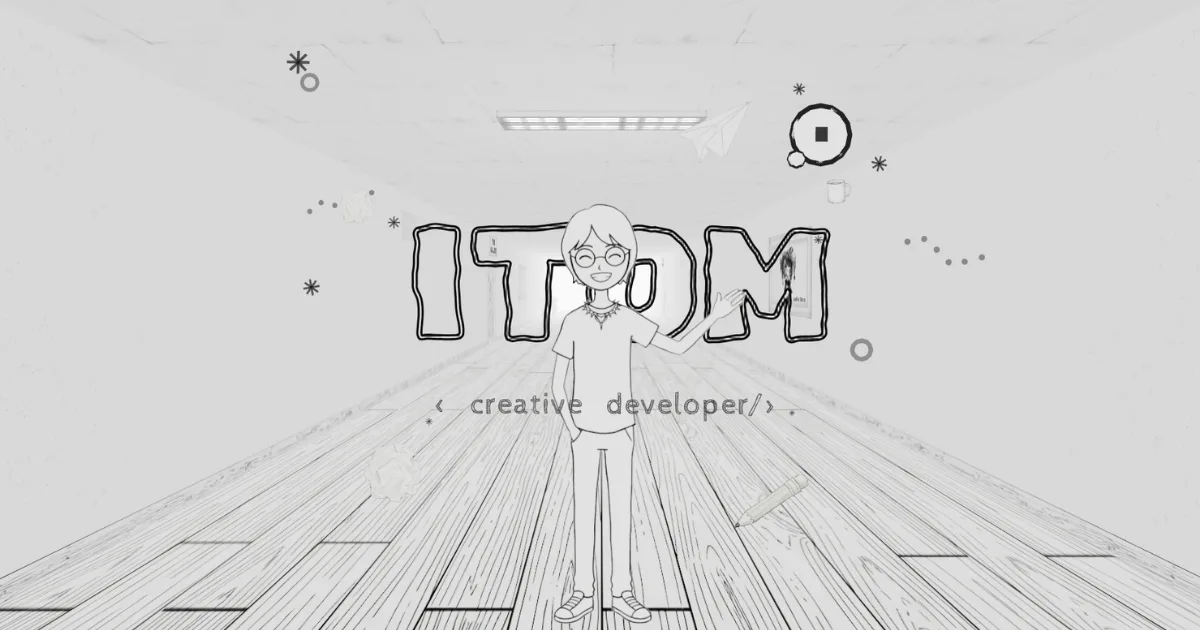
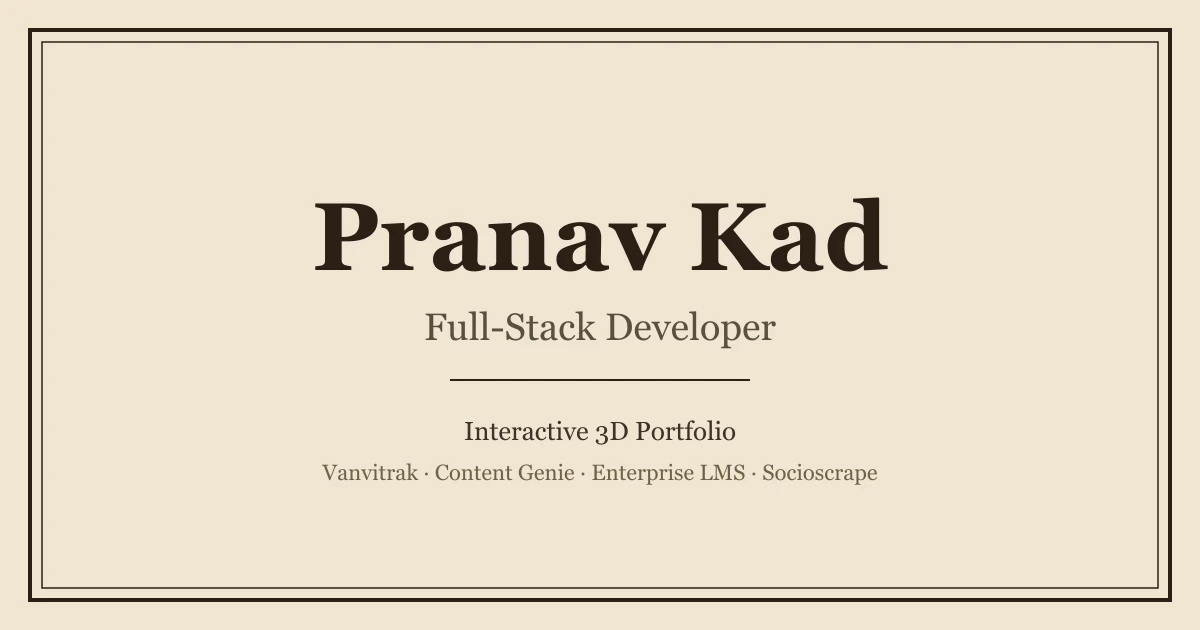
Replace og-image with personal branding, set real domain in meta tags

diff --git a/index.html b/index.html
@@ -26,7 +26,8 @@
   <meta property="og:description"
     content="Interactive 3D developer portfolio of Pranav Kad, Full-Stack Developer. Explore projects like Vanvitrak and Content Genie in a hand-drawn 3D gallery." />
   <meta property="og:site_name" content="Pranav Kad Portfolio" />
-  <meta property="og:image" content="/og-image.webp" />
+  <meta property="og:url" content="https://portfolio-one-amber-dsuzizw4wq.vercel.app/" />
+  <meta property="og:image" content="https://portfolio-one-amber-dsuzizw4wq.vercel.app/og-image.webp" />
   <meta property="og:image:width" content="1200" />
   <meta property="og:image:height" content="630" />
   <meta property="og:locale" content="en_US" />
@@ -36,7 +37,7 @@
   <meta name="twitter:title" content="Pranav Kad | Full-Stack Developer Portfolio" />
   <meta name="twitter:description"
     content="Interactive 3D developer portfolio of Pranav Kad, Full-Stack Developer. Explore projects like Vanvitrak and Content Genie in a hand-drawn 3D gallery." />
-  <meta name="twitter:image" content="/og-image.webp" />
+  <meta name="twitter:image" content="https://portfolio-one-amber-dsuzizw4wq.vercel.app/og-image.webp" />
 
   <!-- Google Fonts: Hand-drawn + Primary -->
   <link rel="preconnect" href="https://fonts.googleapis.com">
